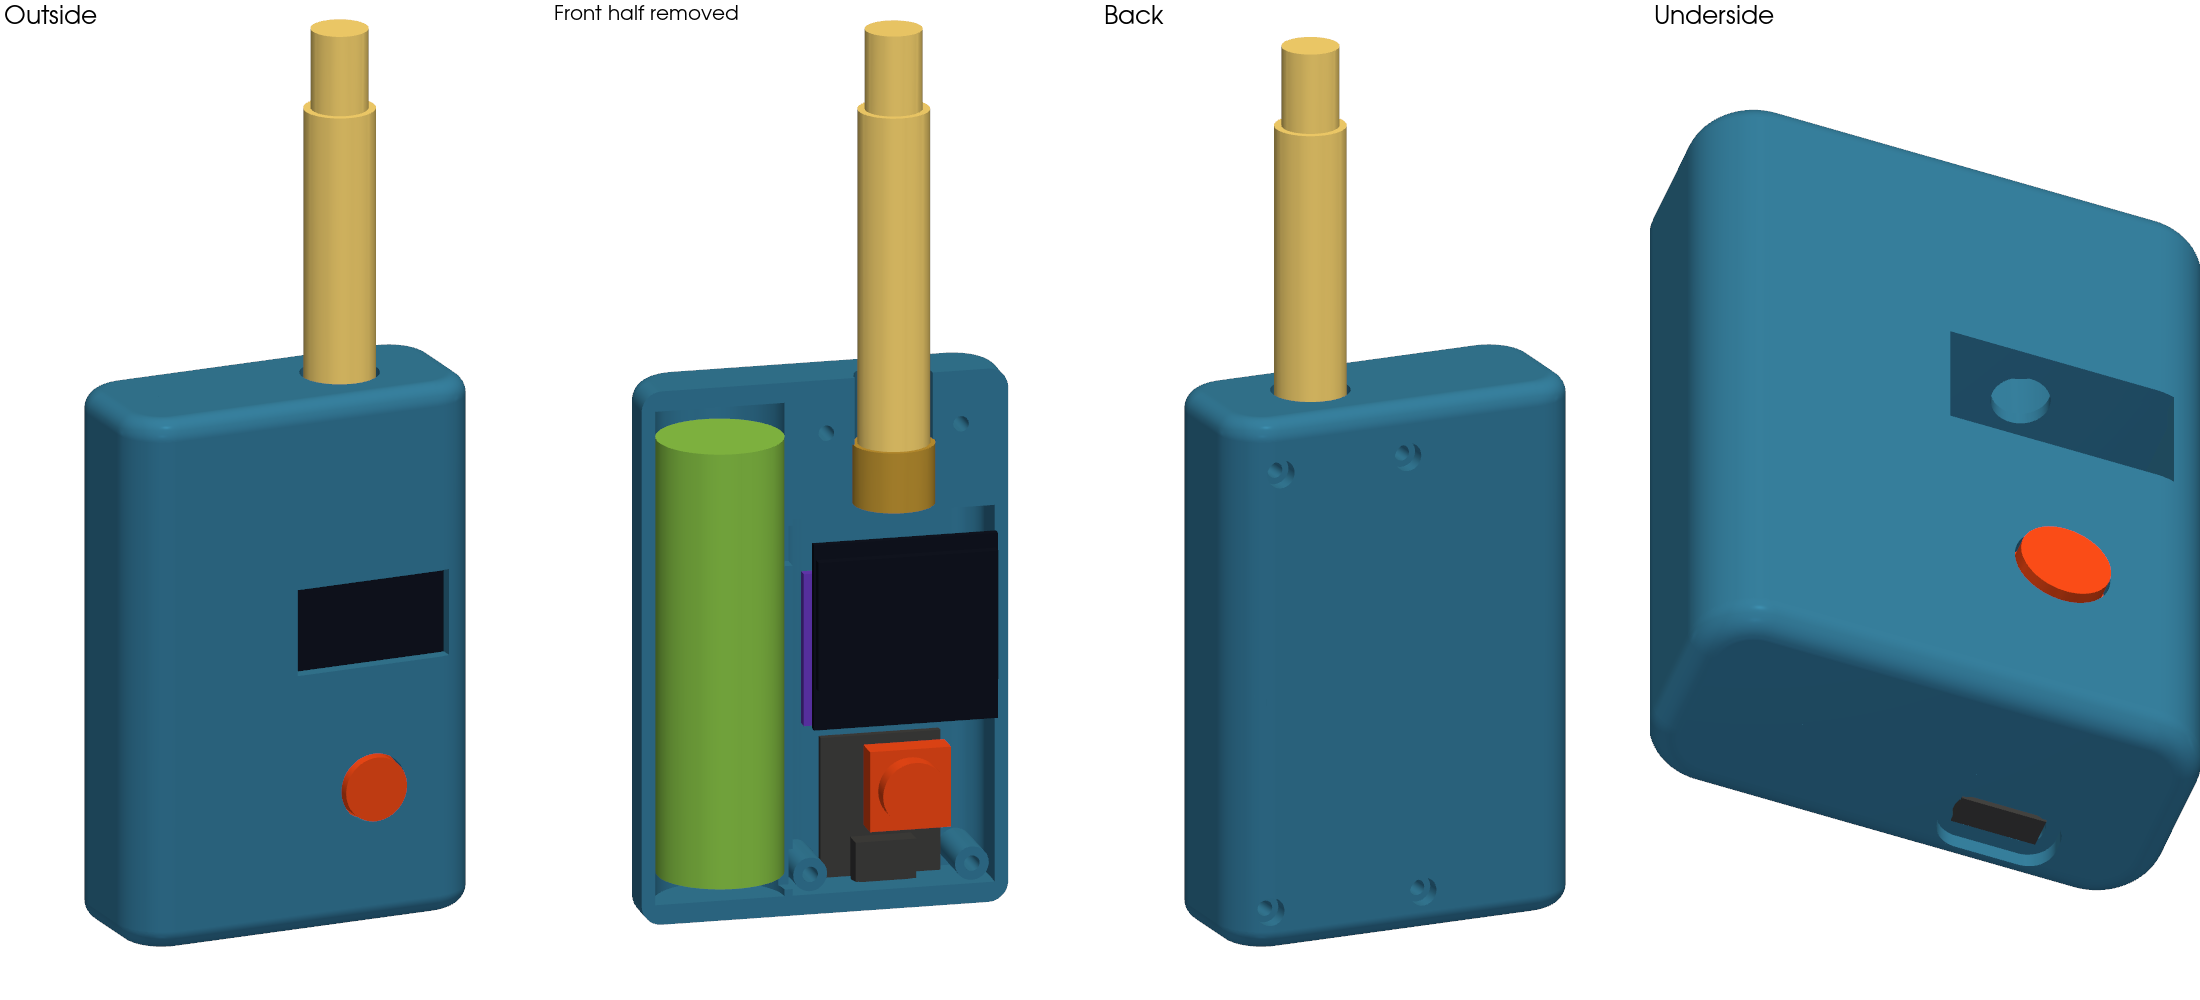
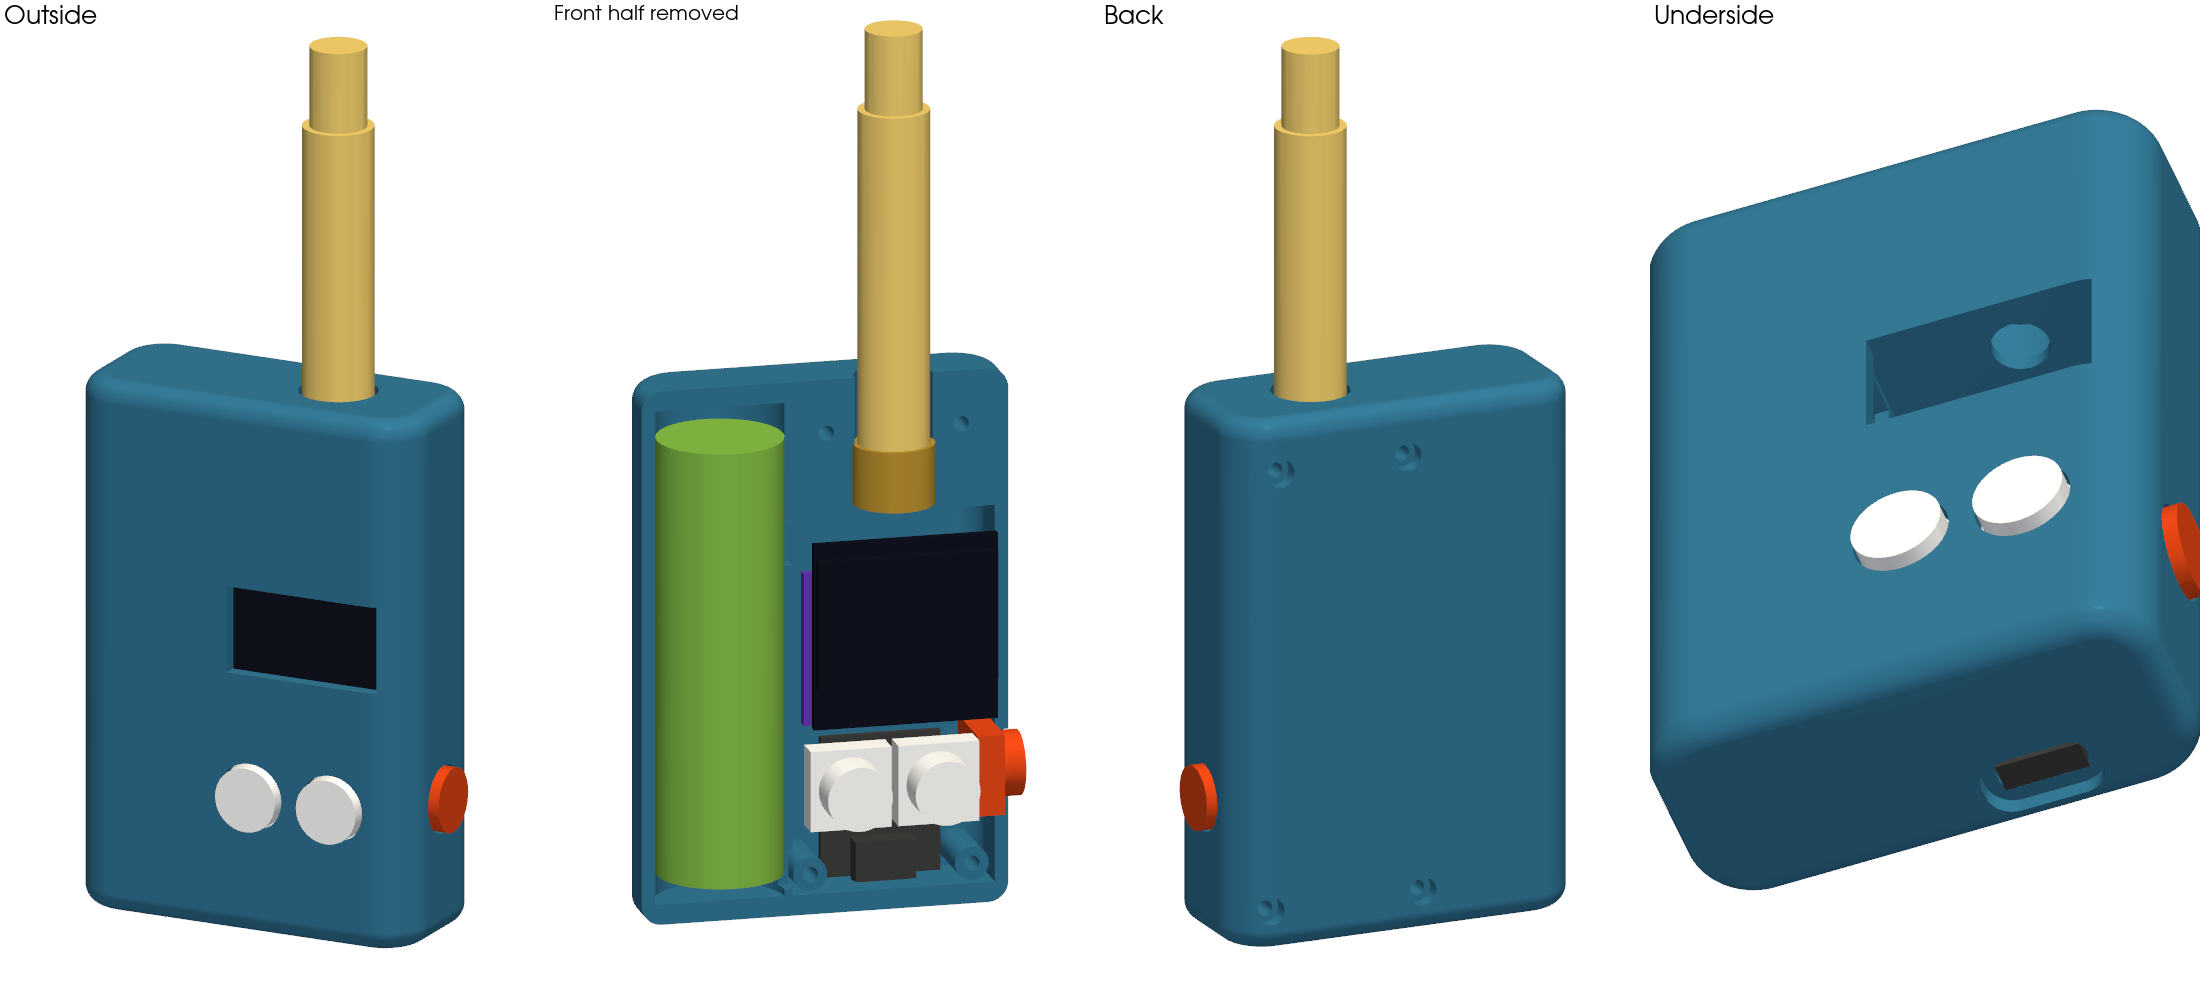
Enclosure: two front game buttons, fire button moved to the right side

diff --git a/cad/puff_body.py b/cad/puff_body.py
@@ -44,6 +44,9 @@ USB = (9.0, 7.4, 3.2)            # receptacle W x L x H
 INA = (22.9, 22.8, 1.6)          # Adafruit INA260 (bench part; final PCB replaces it)
 BTN_BODY, BTN_CAP_D = 12.0, 9.6  # 12 mm tactile switch with round cap
 BTN_HOLE_D = 10.2
+BTN_DEPTH = 4.0                  # switch body depth behind the wall
+GAME_SETBACK = 2.0               # game switches sit this far behind the front wall
+GAME_X = (-8.3, 4.7)             # game button centres, relative to the column centre
 
 SCREW_PILOT, SCREW_CLEAR, SCREW_HEAD = 1.7, 2.3, 4.2   # M2 self-tapping
 BOSS_D = 5.0
@@ -103,7 +106,10 @@ for x, z in SCREWS[2:]:
 
 # front openings
 body -= Pos(X_COL, -T / 2, Z_WIN) * Box(OLED_WIN[0], 3 * WALL, OLED_WIN[1])
-body -= ycyl(BTN_HOLE_D, 3 * WALL, X_COL, Z_BTN, -T / 2 - WALL)
+for gx in GAME_X:                                   # two game buttons, front
+    body -= ycyl(BTN_HOLE_D, 3 * WALL, X_COL + gx, Z_BTN, -T / 2 - WALL)
+# fire button, right-hand side, under the thumb
+body -= Pos(W / 2, 0, Z_BTN) * Rot(Y=90) * Cylinder(BTN_HOLE_D / 2, 3 * WALL)
 # USB-C: slot for the receptacle plus a relief for the plug's overmould
 usb_slot = Pos(X_COL, Y_USB, -1) * extrude(RectangleRounded(USB[0] + 0.6, USB[2] + 0.5, 1.6), END_WALL + 2)
 usb_relief = Pos(X_COL, Y_USB, -1) * extrude(RectangleRounded(12.6, 7.0, 3.0), END_WALL - 1.2 + 1)
@@ -131,10 +137,13 @@ z_xiao = Z_CAV_BOT + XIAO[1] / 2
 xiao = (Pos(X_COL, Y_XIAO, z_xiao) * Box(XIAO[0], XIAO[2], XIAO[1])
         + Pos(X_COL, Y_USB, Z_CAV_BOT - 1.5 + USB[1] / 2) * Box(USB[0], USB[2], USB[1]))
 ina = Pos(X_COL, Y_XIAO, z_xiao + XIAO[1] / 2 + 2 + INA[1] / 2) * Box(INA[0], INA[2], INA[1])
-btn = (Pos(X_COL, Y_FRONT_IN + 2.0, Z_BTN) * Box(BTN_BODY, 4.0, BTN_BODY)
-       + ycyl(BTN_CAP_D, 4.5, X_COL, Z_BTN, -T / 2 - 1.0))
+game = [Pos(X_COL + gx, Y_FRONT_IN + GAME_SETBACK + BTN_DEPTH / 2, Z_BTN) * Box(BTN_BODY, BTN_DEPTH, BTN_BODY)
+        + ycyl(BTN_CAP_D, GAME_SETBACK + WALL + 1.5, X_COL + gx, Z_BTN, -T / 2 - 1.5) for gx in GAME_X]
+x_wall = X_COL0 + COL_W                         # inside of the right-hand wall
+fire = (Pos(x_wall - BTN_DEPTH / 2, 0, Z_BTN) * Box(BTN_DEPTH, BTN_BODY, BTN_BODY)
+        + Pos(x_wall + (WALL + 1.5) / 2, 0, Z_BTN) * Rot(Y=90) * Cylinder(BTN_CAP_D / 2, WALL + 1.5))
 parts = {"cell": cell, "connector": conn, "cartridge": cart, "oled": oled,
-         "xiao": xiao, "ina260": ina, "button": btn}
+         "xiao": xiao, "ina260": ina, "fire": fire, "game_a": game[0], "game_b": game[1]}
 
 # ------------------------------------------------------------------- CHECKS
 print(f"Body: {W:.1f} wide x {T:.1f} thick x {H:.1f} tall; cartridge stands {CART_L - CART_RECESS:.0f} above")
@@ -170,7 +179,7 @@ def drawing(shapes, eye, fname):
 
 
 allparts = list(parts.values())
-drawing([front, back, cart, btn], (-140, -260, 190), "view_outside.svg")
+drawing([front, back, cart, fire] + game, (-140, -260, 190), "view_outside.svg")
 drawing([back] + allparts, (-90, -300, 150), "view_inside.svg")
 
 
@@ -180,7 +189,7 @@ def preview(fname):
     import pyvista as pv
 
     colours = {"shell": "#2f6f8f", "cell": "#7cb342", "connector": "#b0892f", "cartridge": "#e6c66a",
-               "oled": "#10131f", "xiao": "#3a3a3a", "ina260": "#5e35b1", "button": "#d84315"}
+               "oled": "#10131f", "xiao": "#3a3a3a", "ina260": "#5e35b1", "fire": "#d84315", "game_a": "#f5f5f5", "game_b": "#f5f5f5"}
 
     def mesh(shape):
         verts, faces = shape.tessellate(0.05, 0.2)
@@ -189,10 +198,10 @@ def preview(fname):
         return pv.PolyData(v, f)
 
     shell = [("shell", front), ("shell", back)]
-    views = [("Outside", shell + [("cartridge", cart), ("button", btn), ("oled", oled)], (-0.45, -1, 0.35)),
+    views = [("Outside", shell + [("cartridge", cart), ("fire", fire), ("game_a", game[0]), ("game_b", game[1]), ("oled", oled)], (0.5, -1, 0.35)),
              ("Front half removed", [("shell", back)] + list(parts.items()), (-0.25, -1, 0.3)),
-             ("Back", shell + [("cartridge", cart)], (0.45, 1, 0.35)),
-             ("Underside", shell + [("xiao", xiao), ("button", btn)], (-0.3, -0.8, -1))]
+             ("Back", shell + [("cartridge", cart), ("fire", fire)], (0.45, 1, 0.35)),
+             ("Underside", shell + [("xiao", xiao), ("fire", fire), ("game_a", game[0]), ("game_b", game[1])], (0.3, -0.8, -1))]
     pl = pv.Plotter(off_screen=True, shape=(1, 4), window_size=(2200, 1000), border=False)
     for i, (title, items, d) in enumerate(views):
         pl.subplot(0, i)
